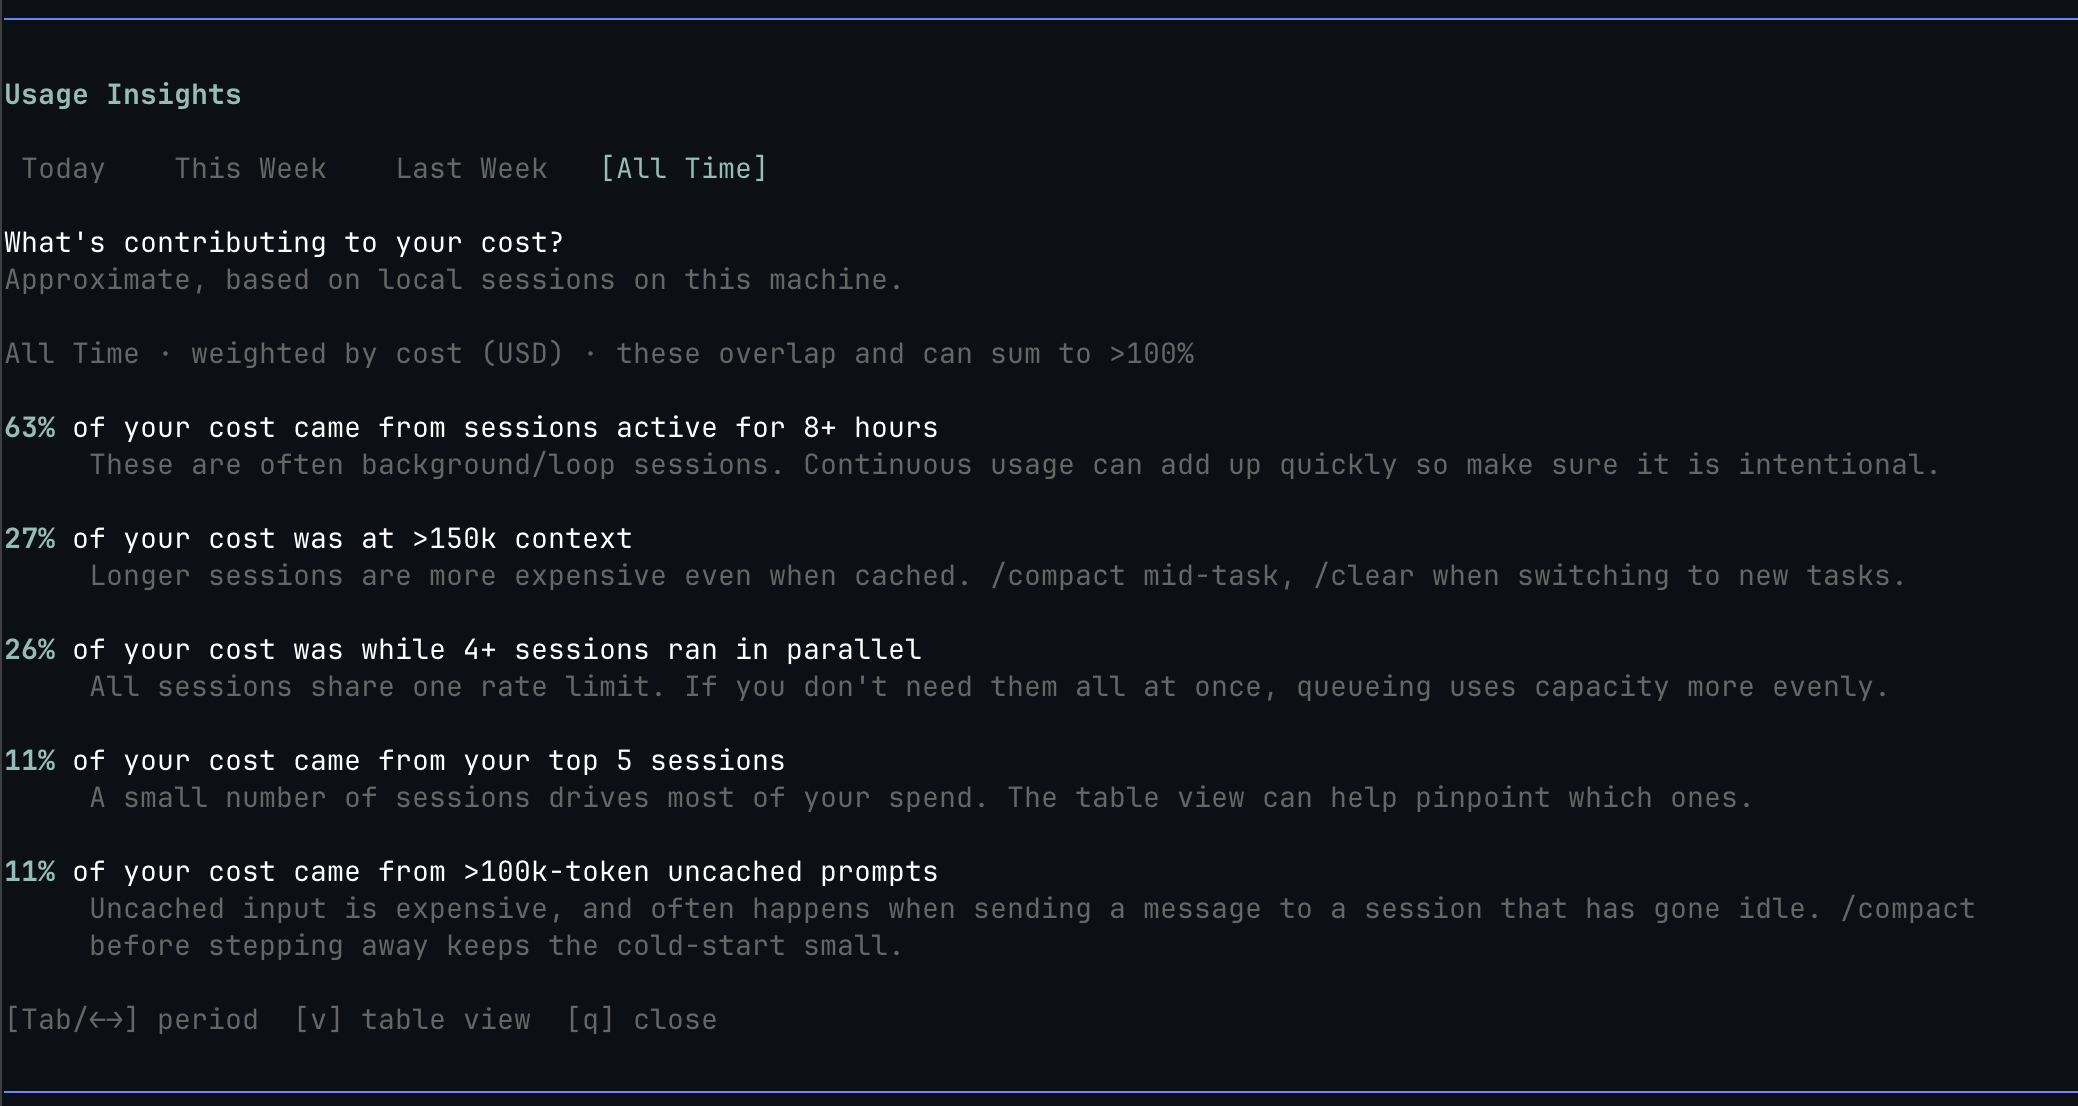
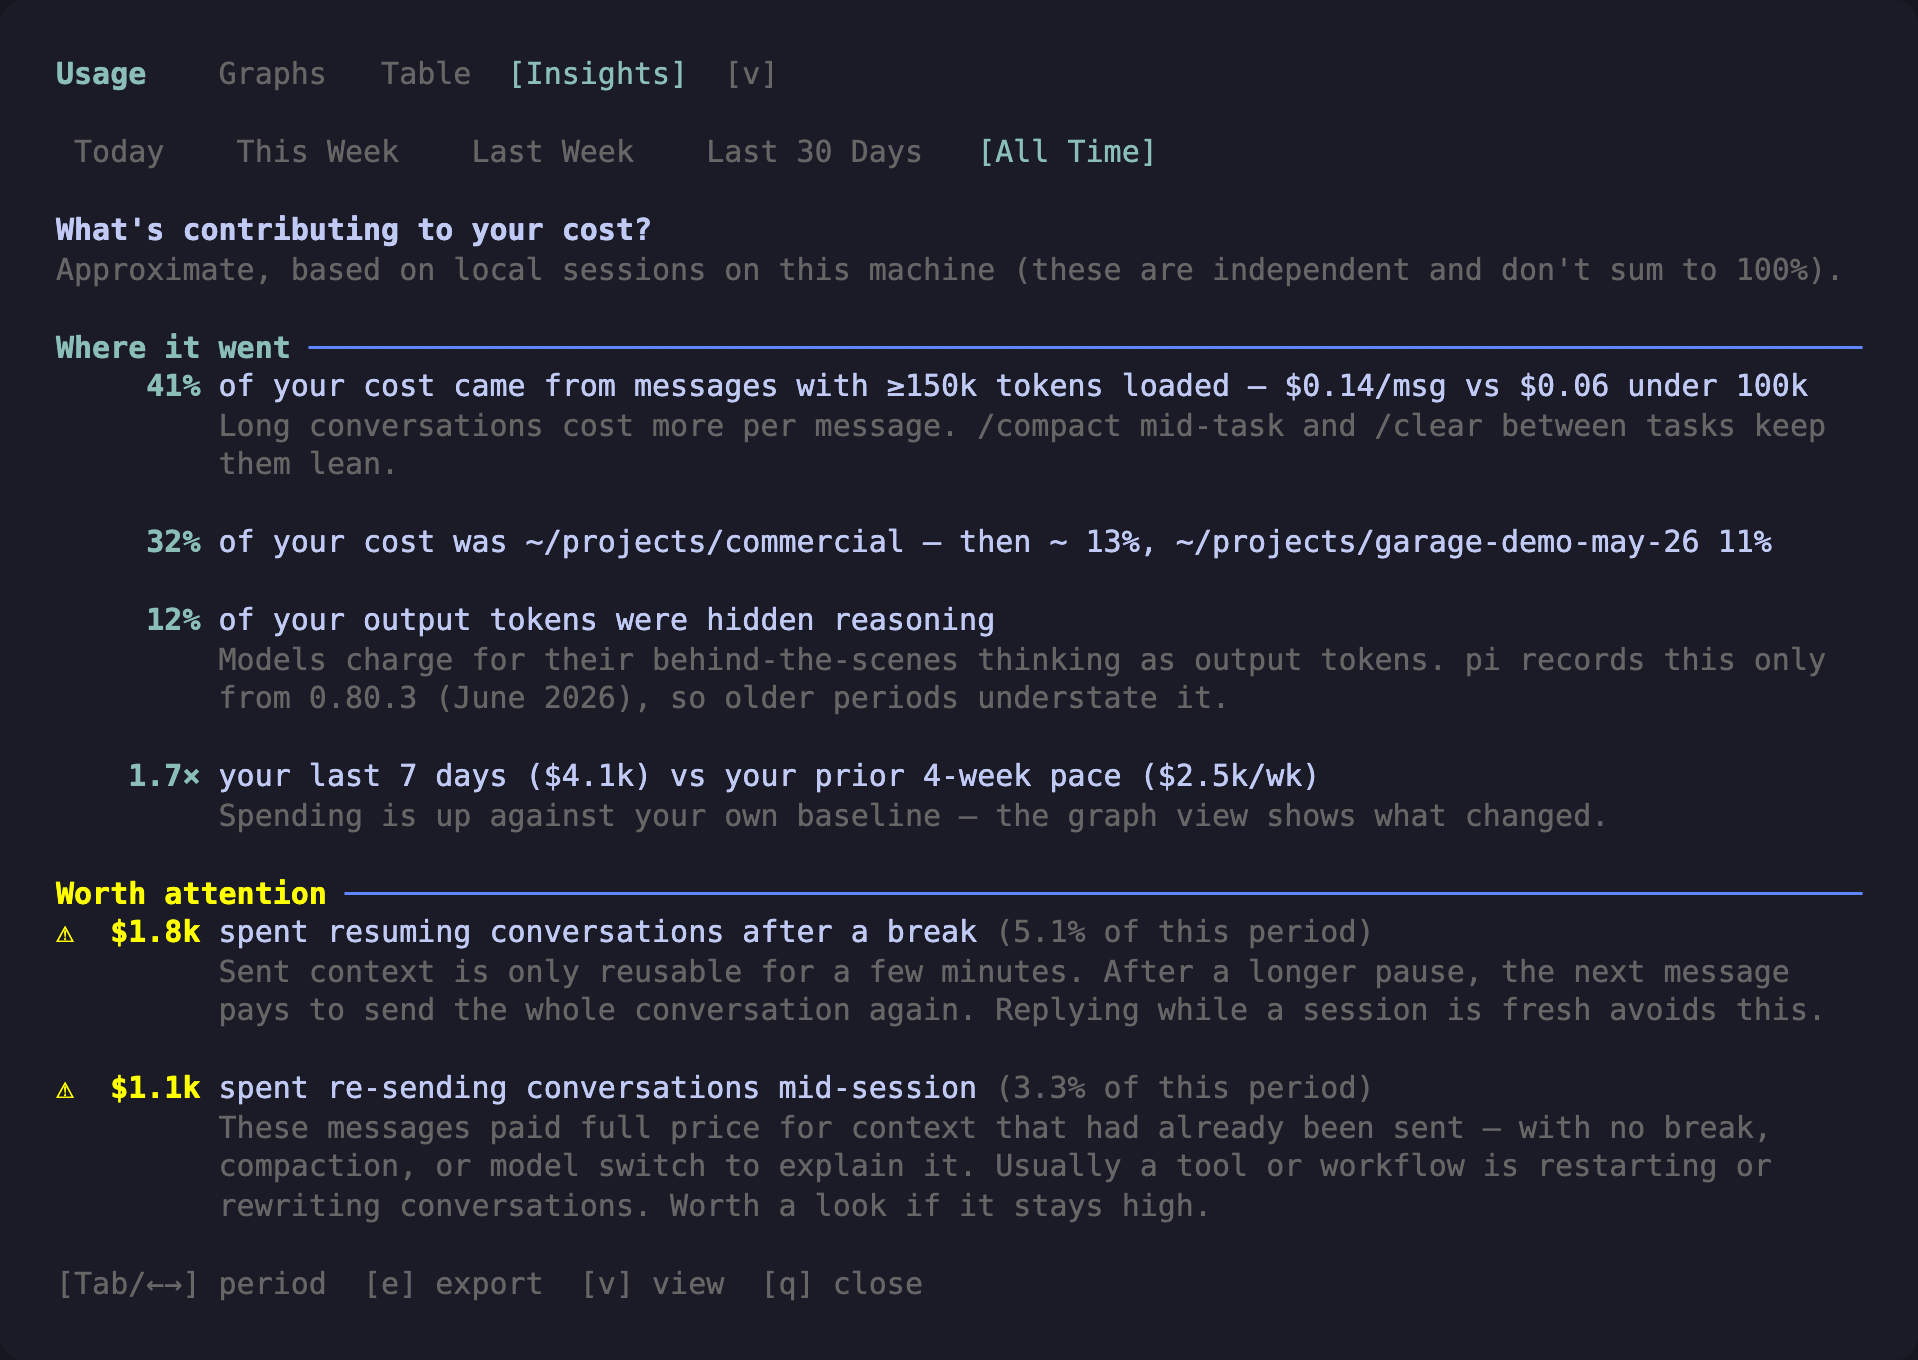
Release usage-extension 0.9.0: screenshots, docs, versions (#79)
- Fresh README screenshots of all three views (graphs default, table
  with expanded provider, insights) — closes #69
- Document view strip, [e] export, and table filtering
- Bump usage-extension to 0.9.0, root to 0.1.56

Pull request: usage: 0.9.0 release — screenshots + docs for view order, export, filtering
Closes #69. Release housekeeping for the #66/#67/#68 trio already on main:

- Fresh screenshots of all three views (captured from the live TUI via ANSI\u2192HTML render so braille glyphs survive; graphs now headline the README since they're the default view)
- README: view strip, [e] export table, table filtering section, updated key map
- Versions: `@user/pi-usage-extension@0.9.0`, `pi-extensions@0.1.56` + changelogs

diff --git a/usage-extension/README.md b/usage-extension/README.md
@@ -2,12 +2,12 @@
 
 A Pi extension that displays aggregated usage statistics across all sessions.
 
-![Default table view of /usage](screenshot.png)
+![Default graphs view of /usage](graphs-screenshot.png)
 
 ## Compatibility
 
 - **Pi version:** 0.42.4+
-- **Last updated:** 2026-07-17 (0.6.1)
+- **Last updated:** 2026-07-17 (0.9.0)
 
 ## Installation
 
@@ -57,11 +57,21 @@ In Pi, run:
 
 ### Views
 
-`/usage` has three view modes, cycled with `v`:
+`/usage` has three view modes, shown as a tab strip in the title and cycled with `v`:
 
-- **Table** (default) — per-provider / per-model stats with cost and token breakdown (screenshot at the top of this page).
+- **Graphs** (default) — an interactive braille line-chart explorer for usage over time (screenshot at the top of this page, details below).
+- **Table** — per-provider / per-model stats with cost and token breakdown, with keyboard filtering (details below).
 - **Insights** — data-driven characteristics of your cost for the active time period (details below). Insights are **independent lenses**, not a breakdown, so they overlap and don't sum to 100%.
-- **Graphs** — an interactive braille line-chart explorer for usage over time (details below).
+
+Every view can export its current slice with `e` — see [Export](#export).
+
+![Table view of /usage](screenshot.png)
+
+### Filtering the table
+
+- `/` opens a live type-to-filter over provider **and** model names (case-insensitive substring). When only models match, the provider row is recomputed from just the matching models — filtering `sol` shows openai-codex as exactly its `gpt-5.6-sol` numbers. `Enter` keeps the filter, `Esc` clears it.
+- `x` hides the selected provider row; `a` resets all hides and the filter.
+- The **Total row recomputes over the visible slice**, and a status line makes the cut explicit so a filtered table can't be mistaken for the full period.
 
 ![Insights view of /usage](insights-screenshot.png)
 
@@ -94,6 +104,18 @@ pi's built-in test providers (`faux-provider`, `fake-provider`) never call a rea
 **Unit:** insights are weighted by recorded API cost (USD). Periods with no recorded cost show an explicit empty state rather than silently switching to a different unit.
 
 A note on reading them: cache-miss and context numbers are **observed cost, not promised savings** — big-context messages often do bigger work. Treat the alarms as "look here", not as an invoice for waste.
+
+### Export
+
+Press `e` in any view to write the **current slice** to the current working directory:
+
+| View | File | Contents |
+|---|---|---|
+| Table | `usage-table-<period>[-filtered]-<stamp>.csv` | per-model rows + TOTAL, full precision; honors the active filter/hides |
+| Graphs | `usage-graph-<period>-<slice>-<stamp>.csv` | exactly what's plotted: visible series only, current metric/grouping/cumulative, ISO bucket starts |
+| Insights | `usage-insights-<period>-<stamp>.json` | period, totals, and the structured insight list |
+
+A `✓ Saved …` note confirms the write (or reports the error) above the help line.
 
 ### Graph explorer
 
@@ -148,11 +170,14 @@ On narrow terminals, `/usage` automatically switches to a compact table instead 
 | `Tab` / `←` `→` | Switch time period |
 | `↑` `↓` | Select provider *(table)* / move legend cursor *(graphs)* |
 | `Enter` / `Space` | Expand/collapse provider *(table)* / toggle series visibility *(graphs)* |
-| `v` | Cycle Table → Insights → Graphs view |
+| `v` | Cycle Graphs → Table → Insights view |
+| `e` | Export the current slice to CSV/JSON |
+| `/` | Type-to-filter providers and models *(table)* |
+| `x` | Hide the selected provider row *(table)* |
 | `m` | Cycle metric: cost / tokens / messages / reasoning *(graphs)* |
 | `g` | Cycle grouping: provider / model / thinking level / total *(graphs)* |
 | `c` | Toggle cumulative vs per-bucket *(graphs)* |
-| `a` | Show all series *(graphs)* |
+| `a` | Show all series *(graphs)* / reset filter and hides *(table)* |
 | `q` / `Esc` | Close |
 
 ## Performance & Caching

diff --git a/usage-extension/CHANGELOG.md b/usage-extension/CHANGELOG.md
@@ -1,5 +1,18 @@
 # Changelog
 
+## [0.9.0] - 2026-07-17
+
+### Added
+- **Export (`e`) in every view** (#67): table → per-model CSV with TOTAL row; graphs → CSV of exactly the plotted slice (visible series, current metric/grouping/cumulative, ISO buckets); insights → structured JSON. Files land in the cwd with self-describing names; a ✓/✗ note confirms the write.
+- **Table cut/filter** (#68): `/` live type-to-filter over provider and model names — when only models match, the provider row is recomputed from just those models; `x` hides the selected row; `a` resets. The Total row recomputes over the visible slice, with an explicit status line, and table exports honor the slice.
+
+### Changed
+- **Graphs is now the default view** (#66); `v` cycles Graphs → Table → Insights, and the title renders a view tab strip so switching is discoverable.
+- README refreshed with current screenshots of all three views (#69) and documentation for export and table filtering.
+
+### Fixed
+- Table selection could desync from rendered rows (the unsliced provider map leaked aggregation insertion order instead of cost-sorted order).
+
 ## [0.8.1] - 2026-07-17
 
 ### Changed

diff --git a/CHANGELOG.md b/CHANGELOG.md
@@ -1,5 +1,10 @@
 # Changelog
 
+## [0.1.56] - 2026-07-17
+
+### Changed
+- `usage-extension` 0.9.0: Graphs-first default view with a visible view strip, `[e]` export from every view (CSV/JSON), table filtering (`/` filter, `x` hide, `a` reset) with slice-aware totals and exports, refreshed README screenshots.
+
 ## [0.1.55] - 2026-07-17
 
 ### Changed